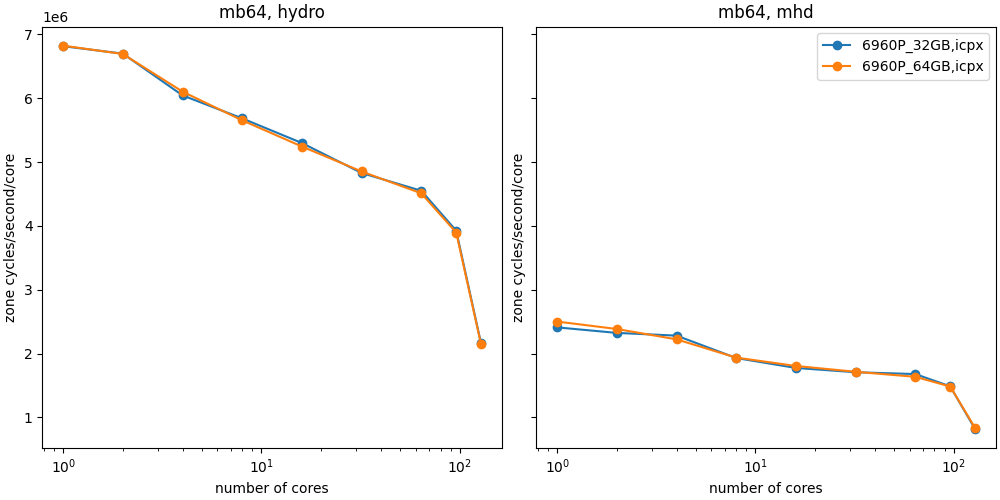
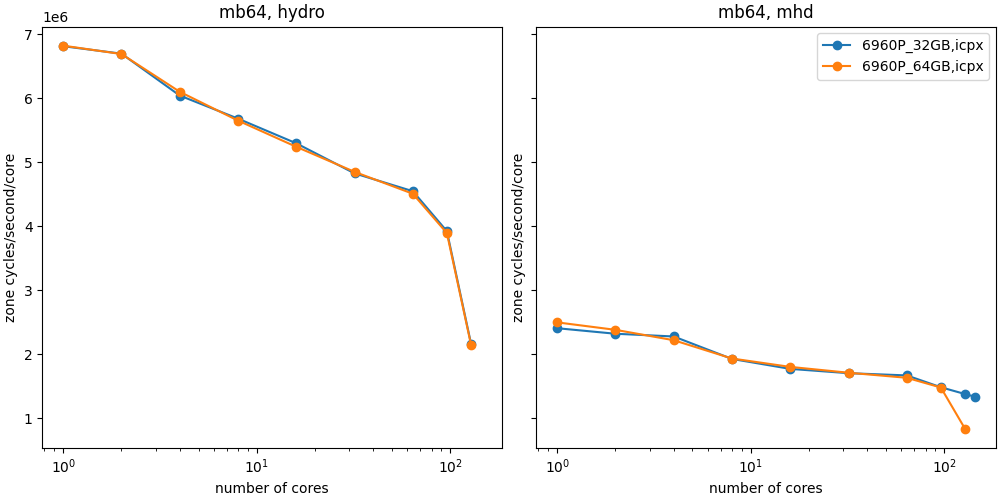
Updated HPE test (corrected 128, added 144)

diff --git a/benchmark/hpe/scaling.py b/benchmark/hpe/scaling.py
@@ -3,7 +3,7 @@ import matplotlib.pyplot as plt
 import os
 
 def get_zcs(mb="mb64",physics="mhd",CC="icpx",machine="hpe"):
-    n = np.array([1, 2, 4, 8, 16, 32, 64, 96, 128])
+    n = np.array([1, 2, 4, 8, 16, 32, 64, 96, 128, 144])
     scratch_dir = f"/home/users/e89961/{machine}/blast-scaling-{CC}"
     zcs = []
     ntask = []
